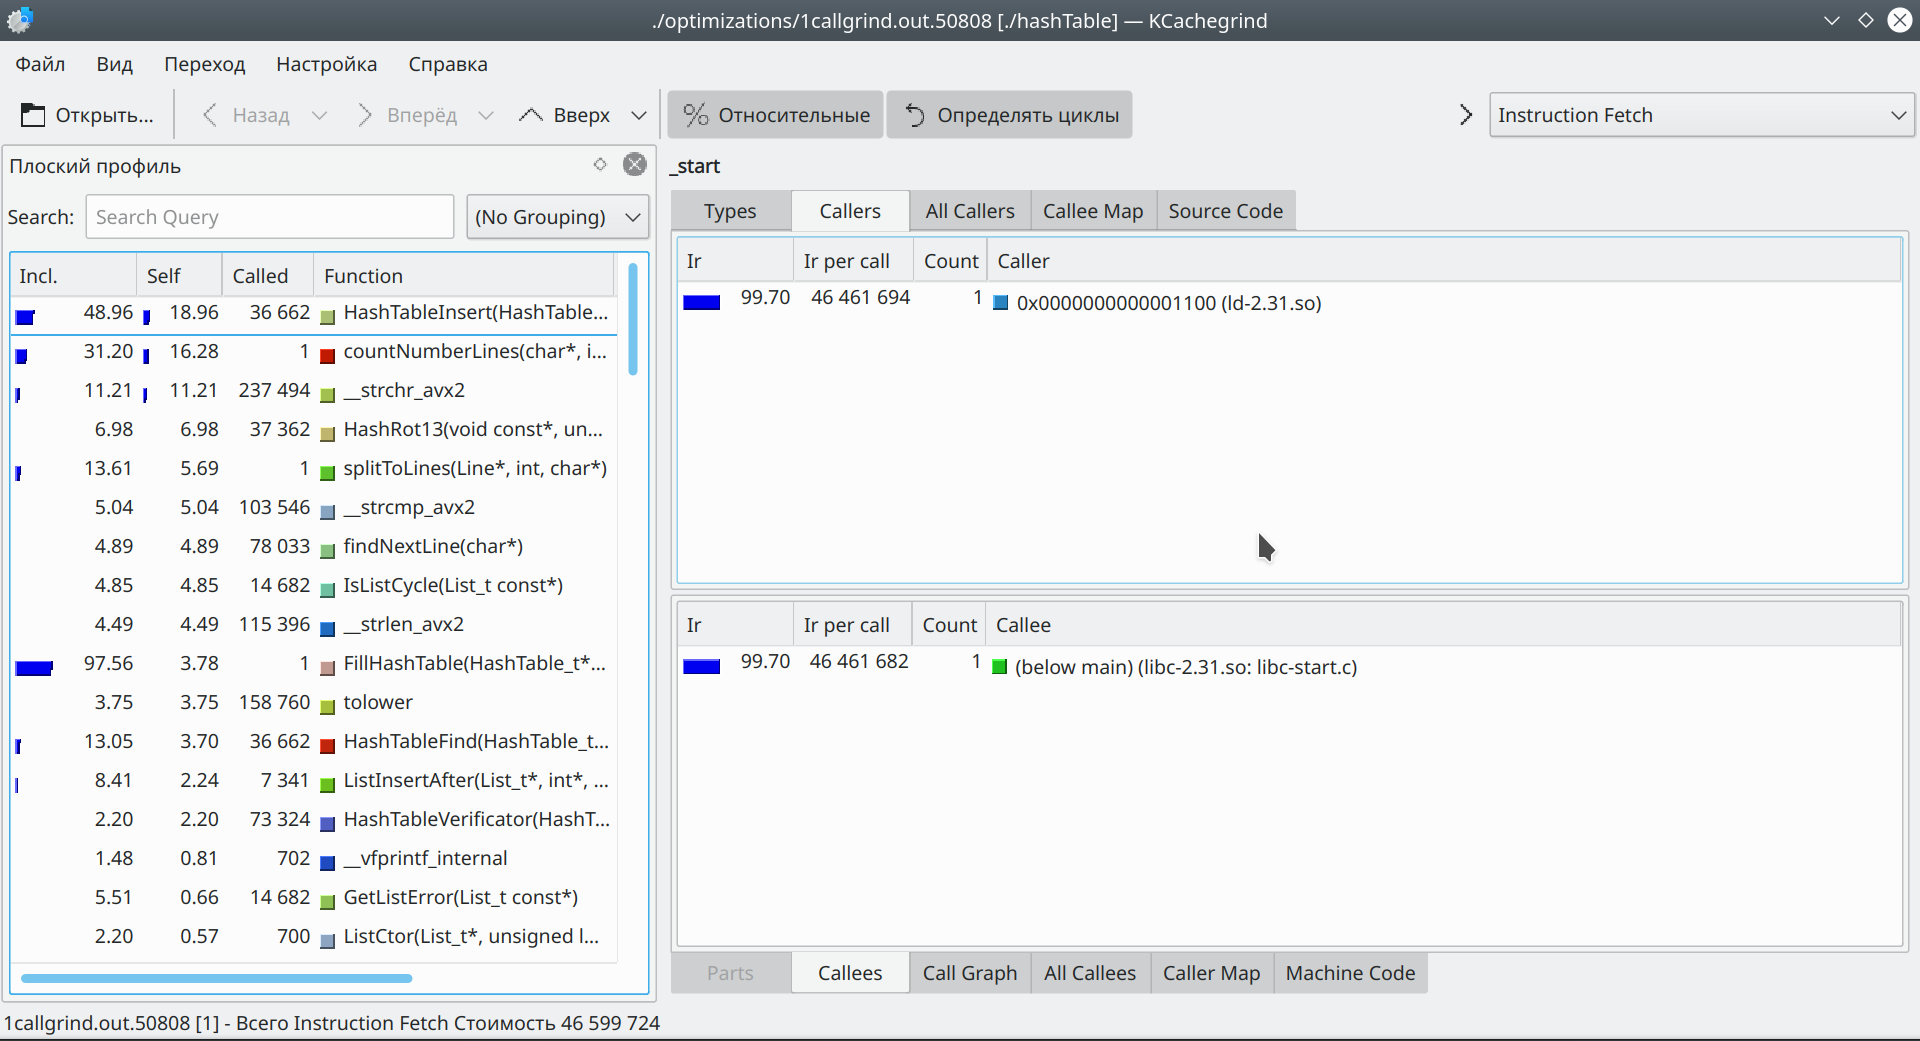
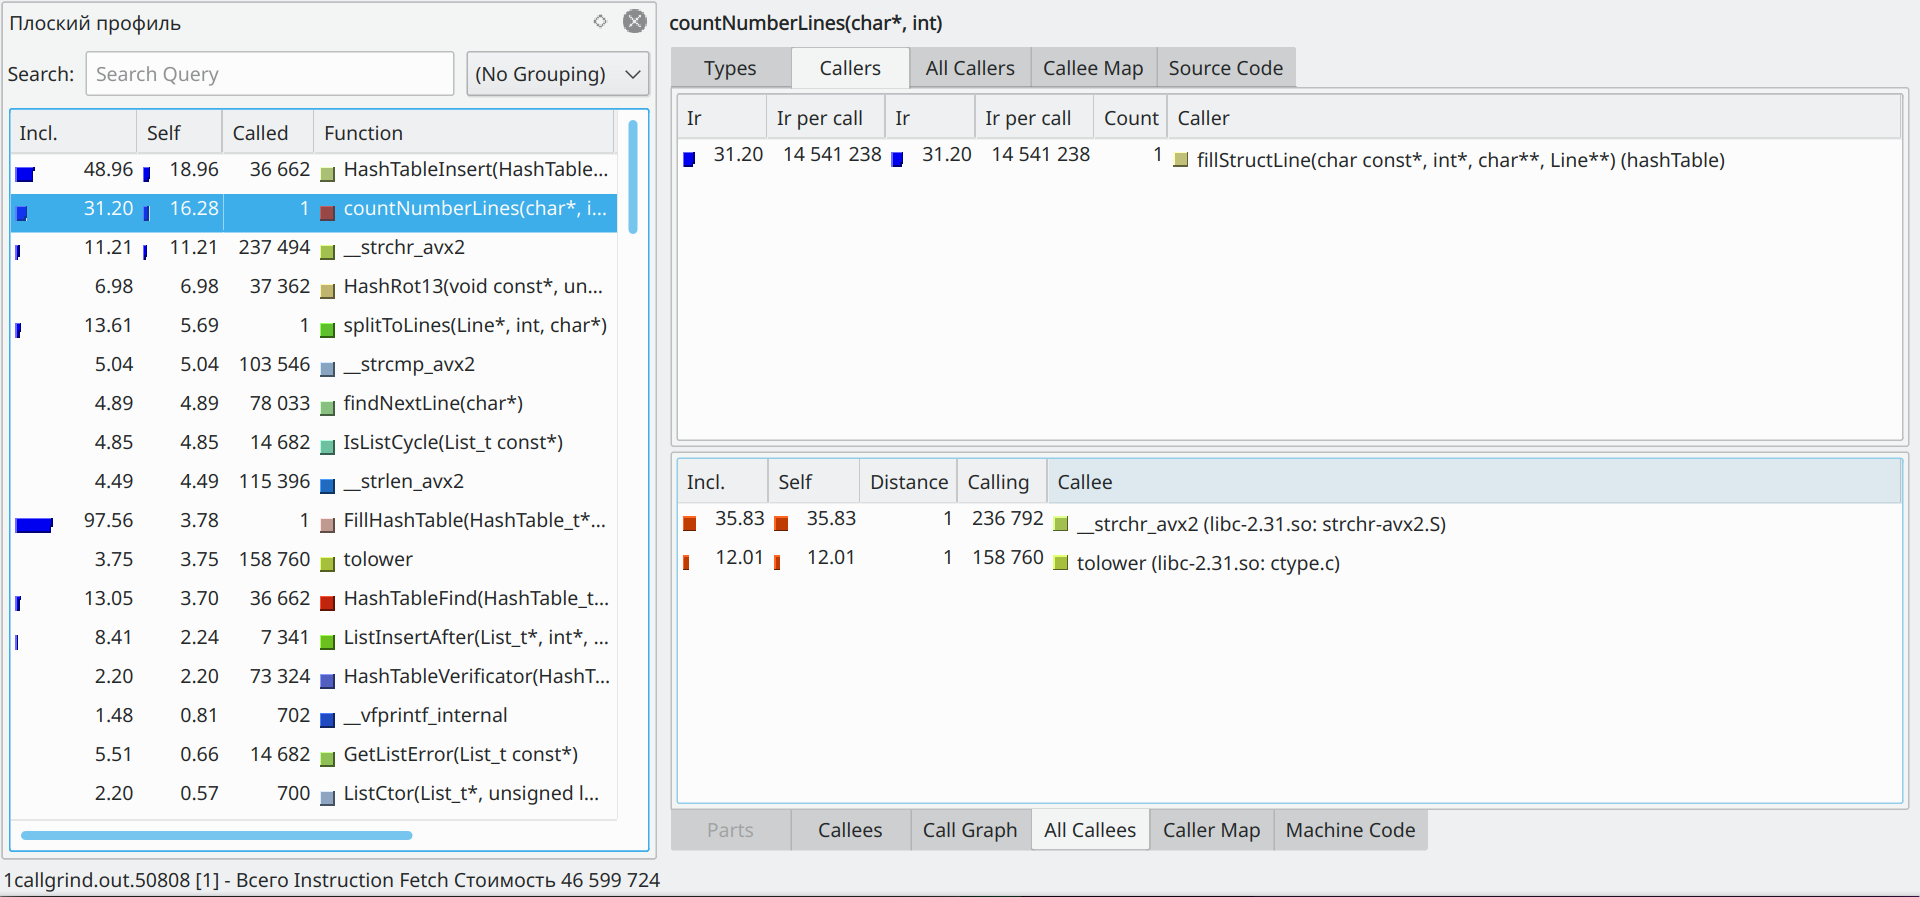
update readme

Changed region(s): [[0.0, 0.0, 1.0, 1.0], [0.3438, 0.4682, 1.0, 0.6555], [0.5, 0.9989, 1.0, 1.0]]

diff --git a/src/HashFunctions.cpp b/src/HashFunctions.cpp
@@ -4,7 +4,7 @@
 
 unsigned int HashOne( const void *elem, size_t size )
 {
-    assert(elem != nullptr);
+    assert( elem != nullptr );
 
     unsigned int hash = 1;
 
@@ -13,7 +13,7 @@ unsigned int HashOne( const void *elem, size_t size )
 
 unsigned int HashFirstSymbol( const void *elem, size_t size )
 {
-    assert(elem != nullptr);
+    assert( elem != nullptr );
 
     unsigned int hash = 0;
     char *buffer      = (char*)elem;
@@ -25,7 +25,7 @@ unsigned int HashFirstSymbol( const void *elem, size_t size )
 
 unsigned int HashWordLen( const void *elem, size_t size )
 {
-    assert(elem != nullptr);
+    assert( elem != nullptr );
 
     unsigned int hash = (unsigned int)size;
 
@@ -34,7 +34,7 @@ unsigned int HashWordLen( const void *elem, size_t size )
 
 unsigned int HashSumSymbol( const void *elem, size_t size )
 {
-    assert(elem != nullptr);
+    assert( elem != nullptr );
 
     unsigned int hash = 0;
     char *buffer      = (char*)elem;
@@ -49,7 +49,7 @@ unsigned int HashSumSymbol( const void *elem, size_t size )
 
 unsigned int HashDed( const void *elem, size_t size )
 {
-    assert(elem != nullptr);
+    assert( elem != nullptr );
 
     char *buffer      = (char*)elem;
     unsigned int hash = buffer[0];

diff --git a/src/FileOperations.cpp b/src/FileOperations.cpp
@@ -94,7 +94,7 @@ size_t countNumberLines( char *str, ssize_t numberBytesFile )
         else
         {
             unsigned int codeSym = str[curOffsetInStr];
-            if ( codeSym < 97 )
+            if ( codeSym < 'a' )
                 str[curOffsetInStr] = tolower( codeSym );
         }
     }

diff --git a/README.md b/README.md
@@ -1,49 +1,117 @@
 # Хеш-таблица
-Реализация хеш-таблицы методом цепочек для решения проблемы коализий.
+Реализация хеш-таблицы методом цепочек для решения проблемы коллизий.
 ## Исследование различных хеш-функций
 ### HashOne
-Хеш-функция, которая возвращает 1 для любой строки
+Хеш-функция, которая возвращает 1 для любой строки.
+```c
+unsigned int HashOne( const void *elem, size_t size )
+{
+    assert( elem != nullptr );
+
+    unsigned int hash = 1;
+
+    return hash % ( HASH_TABLE_SIZE );
+}
+```
 ![](https://github.com/vihlancevk/hash-table/blob/main/res/hashTableImages/(1)HashOne.png)
 ### HashFirstSymbol
-Хеш-функция, которая возвращает ASCII код первого символа строки
+Хеш-функция, которая возвращает ASCII код первого символа строки.
+```c
+unsigned int HashFirstSymbol( const void *elem, size_t size )
+{
+    assert( elem != nullptr );
+
+    unsigned int hash = 0;
+    char *buffer      = (char*)elem;
+
+    hash = (unsigned int)buffer[0];
+
+    return hash % ( HASH_TABLE_SIZE );
+}
+```
 ![](https://github.com/vihlancevk/hash-table/blob/main/res/hashTableImages/(2)HashFirstSymbol.png)
 ### HashWordLen
-Хеш-функция, которая возвращает длину строки
+Хеш-функция, которая возвращает длину строки.
+```c
+unsigned int HashWordLen( const void *elem, size_t size )
+{
+    assert( elem != nullptr );
+
+    unsigned int hash = (unsigned int)size;
+
+    return hash % ( HASH_TABLE_SIZE );
+}
+```
 ![](https://github.com/vihlancevk/hash-table/blob/main/res/hashTableImages/(3)HashWordLen.png)
 ### HashSumSymbol
-Хеш-функция, которая возвращает сумму ASCII кодом символов строки
+Хеш-функция, которая возвращает сумму ASCII кодом символов строки.
+```c
+unsigned int HashSumSymbol( const void *elem, size_t size )
+{
+    assert( elem != nullptr );
+
+    unsigned int hash = 0;
+    char *buffer      = (char*)elem;
+
+    for(size_t i = 0; i < size; i++)
+    {
+        hash += (unsigned int)buffer[i];
+    }
+
+    return hash % ( HASH_TABLE_SIZE );
+}
+```
 ![](https://github.com/vihlancevk/hash-table/blob/main/res/hashTableImages/(4)HashSumSymbol.png)
 ### HashDed
 Хеш-функция, которая работает по следующему алгоритму
 ```c
-char *buffer      = (char*)elem;
-unsigned int hash = buffer[0];
-for ( size_t i = 0; i < size - 1; i++ )
+unsigned int HashDed( const void *elem, size_t size )
 {
-    hash = ( hash << 1 | hash >> 31 ) ^ buffer[i + 1];
+    assert( elem != nullptr );
+
+    char *buffer      = (char*)elem;
+    unsigned int hash = buffer[0];
+
+    for ( size_t i = 0; i < size - 1; i++ )
+    {
+        hash = ( hash << 1 | hash >> 31 ) ^ buffer[i + 1];
+    }
+
+    return hash % ( HASH_TABLE_SIZE );
 }
 ```
 ![](https://github.com/vihlancevk/hash-table/blob/main/res/hashTableImages/(5)HashDed.png)
 ### HashRot13
 Хеш-функция, которая работает по следующему алгоритму
 ```c
-int hash     = 0;
-char *buffer = (char*)elem;
-for(size_t i = 0; i < size; i++)
+unsigned int HashRot13( const void *elem, size_t size )
 {
-    hash += (int)buffer[i];
-    hash -= (hash << 13) | (hash >> 19);
+    assert( elem != nullptr );
+    
+    int hash     = 0;
+    char *buffer = (char*)elem;
+    
+    for(size_t i = 0; i < size; i++)
+    {
+        hash += (int)buffer[i];
+        hash -= (hash << 13) | (hash >> 19);
+    }
+    
+    return hash % ( HASH_TABLE_SIZE );
 }
 ```
 ![](https://github.com/vihlancevk/hash-table/blob/main/res/hashTableImages/(6)HashRot13.png)
-#### Итог
-Наиболее равномерное распределение нам даёт функция HashRot13, её мы и будем использовать для второй части ислледования.
+## Итог
+Наиболее равномерное распределение нам даёт функция HashRot13, её мы и будем использовать для второй части исcледования.
 ## Ускорение хеш-таблицы
-Для замера времени действия каждой функции будем использовать профайлер `callgrind` и его графическую оболочку `kcachegrind`.
+Для замера времени действия каждой функции будем использовать профайлер `callgrind` и его графическую оболочку `kcachegrind`.  
+В `kcachegrind` будем сортировать функции по показателю `Self` (относительное время в условных единицах, которая работала сама функция). Необходимо найти по этому показателю функцию из верхушки списка, которая не имеет "детей", и оптимизировать её.  
+Также мы будем проверять эффективность оптимизации с ключом компиляции -O0.
 ### Версия без оптимизаций
-Время выполнения программы в условных единицах - 46 599 724.
+На примере функции `countNumberLines` на изображении ниже показано, как выглядит профайлер: левую часть занимает список функций, которые мы отсортировали по параметру `Self`, в правой верхней части мы можем видеть функции, которые вызывают выбранную нами, а в правой нижней - функции, которые вызываются из нашей.
 ![](https://github.com/vihlancevk/hash-table/blob/main/optimizations/(1)no_optimizations.png)
-По данной информации мы можем выбрать функции, которые будем оптимизировать.
+На основе этого мы будем выбирать программы для оптимизации.  
+Время выполнения программы в условных единицах - 46 599 724.
 ### Версия с ассемблерными вставками
 Первый тип нашей оптимизации - ассемблерные вставки, его мы применим для функций `splitToLines` и `HashTableVerificator`.  
 Время выполнения программы в условных единицах - 44 640 845.
@@ -53,24 +121,24 @@ for(size_t i = 0; i < size; i++)
 Время выполнения программы в условных единицах - 44 167 322.
 ![](https://github.com/vihlancevk/hash-table/blob/main/optimizations/(3)asm_fun_optimization.png)
 ### Версия с измененной логикой программы
-В хеш-таблице 4 раза вычислялась длина каждого слова, 3 раза с помощью функции `strlen` и один раз, косвенно, в ассемблерной вставке, в функции `splitToLines`. Поэтому, чтобы ускорить программу, необходимо оставить только косвенный персчет внутри ассемблерной вставки и передавать в функции структуры, которые содержат в себе указатель на константую строку и её длину.  
+В хеш-таблице 4 раза вычислялась длина каждого слова, 3 раза с помощью функции `strlen` и один раз, косвенно, в ассемблерной вставке, в функции `splitToLines`. Поэтому, чтобы ускорить программу, необходимо оставить только косвенный пересчёт внутри ассемблерной вставки и передавать в функции структуры, которые содержат в себе указатель на константую строку и её длину.  
 Время выполнения программы в условных единицах - 40 951 673.
 ![](https://github.com/vihlancevk/hash-table/blob/main/optimizations/(4)no_strlen_optimization.png)
 ### Версия в увеличенным размером хеш-таблицы
-В программе используется метод цепочек для разрешения коализий, поэтому при большом среднем размере списка часто внутри функции `HashTableInsert` вызывается `strcmp`, чтобы избежать этого, необходимо подобрать нужный размер хеш-таблицы, что приведёт к уменьшению средней длины списка.  
+В программе используется метод цепочек для разрешения коллизий, поэтому при большом среднем размере списка часто внутри функции `HashTableInsert` вызывается `strcmp`, чтобы избежать этого, необходимо подобрать нужный размер хеш-таблицы, что приведёт к уменьшению средней длины списка.  
 Старая средняя длина списка - 12.  
 Новая средняя длина списка - 5.  
 Время выполнения программы в условных единицах - 38 860 644.
 ![](https://github.com/vihlancevk/hash-table/blob/main/optimizations/(5)resize_hash_table_optimization.png)
 ### Ещё одно ускорение хеш-функции
-В программе по аналогии с `strlen` несколько раз вызывается функция `HashRot13`, что замедляет программу, поэтому нужно изменить код так, чтобы оставить только один вызов. А также данная функция часто вызывается из `HashTableFind`, поэтому имет смысл переписать её на ассемблере более оптимизировано.  
+В программе по аналогии с `strlen` несколько раз вызывается функция `HashRot13`, что замедляет программу, поэтому нужно изменить код так, чтобы оставить только один вызов. А также данная функция часто вызывается из `HashTableFind`, поэтому имеет смысл переписать её на ассемблере более оптимизировано.  
 Время выполнения программы в условных единицах - 36 559 187.
 ![](https://github.com/vihlancevk/hash-table/blob/main/optimizations/(6)asm_fun1_optimization.png)
 ### Ускорение функции `countNumberLines`
 В этой функции вызывается `tolower` для всех подряд символов, что замедляет программу, поэтому это нужно исправить.  
 Время выполнения программы в условных единицах - 33 980 330.
 ![](https://github.com/vihlancevk/hash-table/blob/main/optimizations/(7)tolower_optimization.png)
-#### Итог
+## Итог
 Общее ускорение составило примерно `37%`.
 # Сборка программы
 Для компиляции программы необходимо использовать компилятор `gcc`
